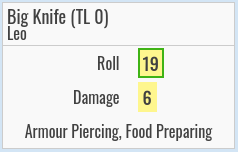
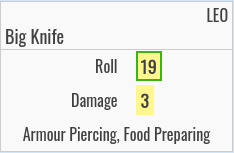
Split up character name & subtitle in roll template
+ use subtitle for skill specialisms, and drop the weapon TL bit
because that's probably not useful.

diff --git a/mongoose-traveller-2e/src/pug/roll-template.html b/mongoose-traveller-2e/src/pug/roll-template.html
@@ -1,14 +1,15 @@
 <rolltemplate class="sheet-rolltemplate-rolls">
   <div class="sheet-container">
     <div class="sheet-header">
-      {{#title}}<div class="sheet-title">{{title}}</div>{{/title}}
+      <div class="sheet-character_name">{{character_name}}</div>
+      <div class="sheet-title">{{title}}</div>
       {{#subtitle}}<div class="sheet-subtitle">{{subtitle}}</div>{{/subtitle}}
     </div>
     <div class="sheet-content">
-      {{#allprops() title subtitle desc baseroll}}
+      {{#allprops() character_name title subtitle desc}}
       <div class="sheet-key">{{key}}</div>
       <div class="sheet-value">{{value}}</div>
-      {{/allprops() title subtitle desc baseroll}}
+      {{/allprops() character_name title subtitle desc}}
       {{#desc}}<div class="sheet-desc">{{desc}}</div>{{/desc}}
     </div>
   </div>

diff --git a/mongoose-traveller-2e/src/sheet.scss b/mongoose-traveller-2e/src/sheet.scss
@@ -453,11 +453,19 @@
         border-bottom: 1px solid #ccc;
     }
 
+    .sheet-character_name {
+        text-align: right;
+        text-transform: uppercase;
+        font-size: 16px;
+        padding-bottom: 4px;
+    }
+
     .sheet-title {
         font-size: 18px;
     }
 
     .sheet-subtitle {
+        padding-top: 4px;
         font-size: 16px;
     }
 
